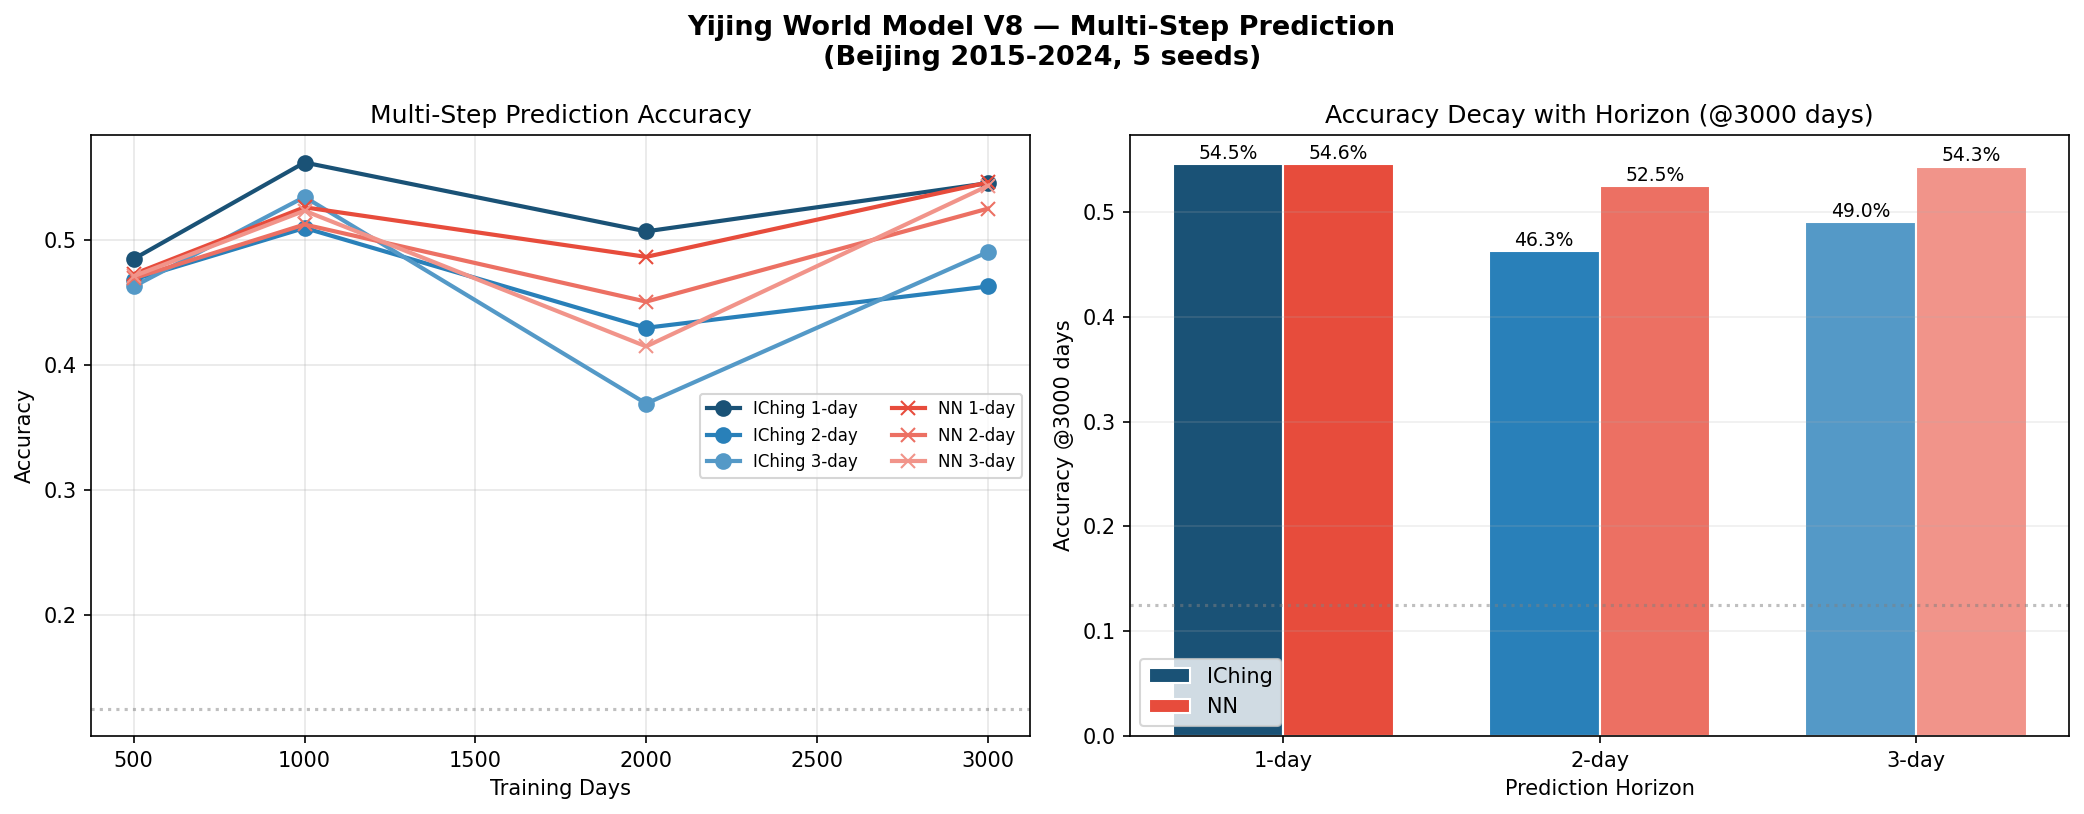
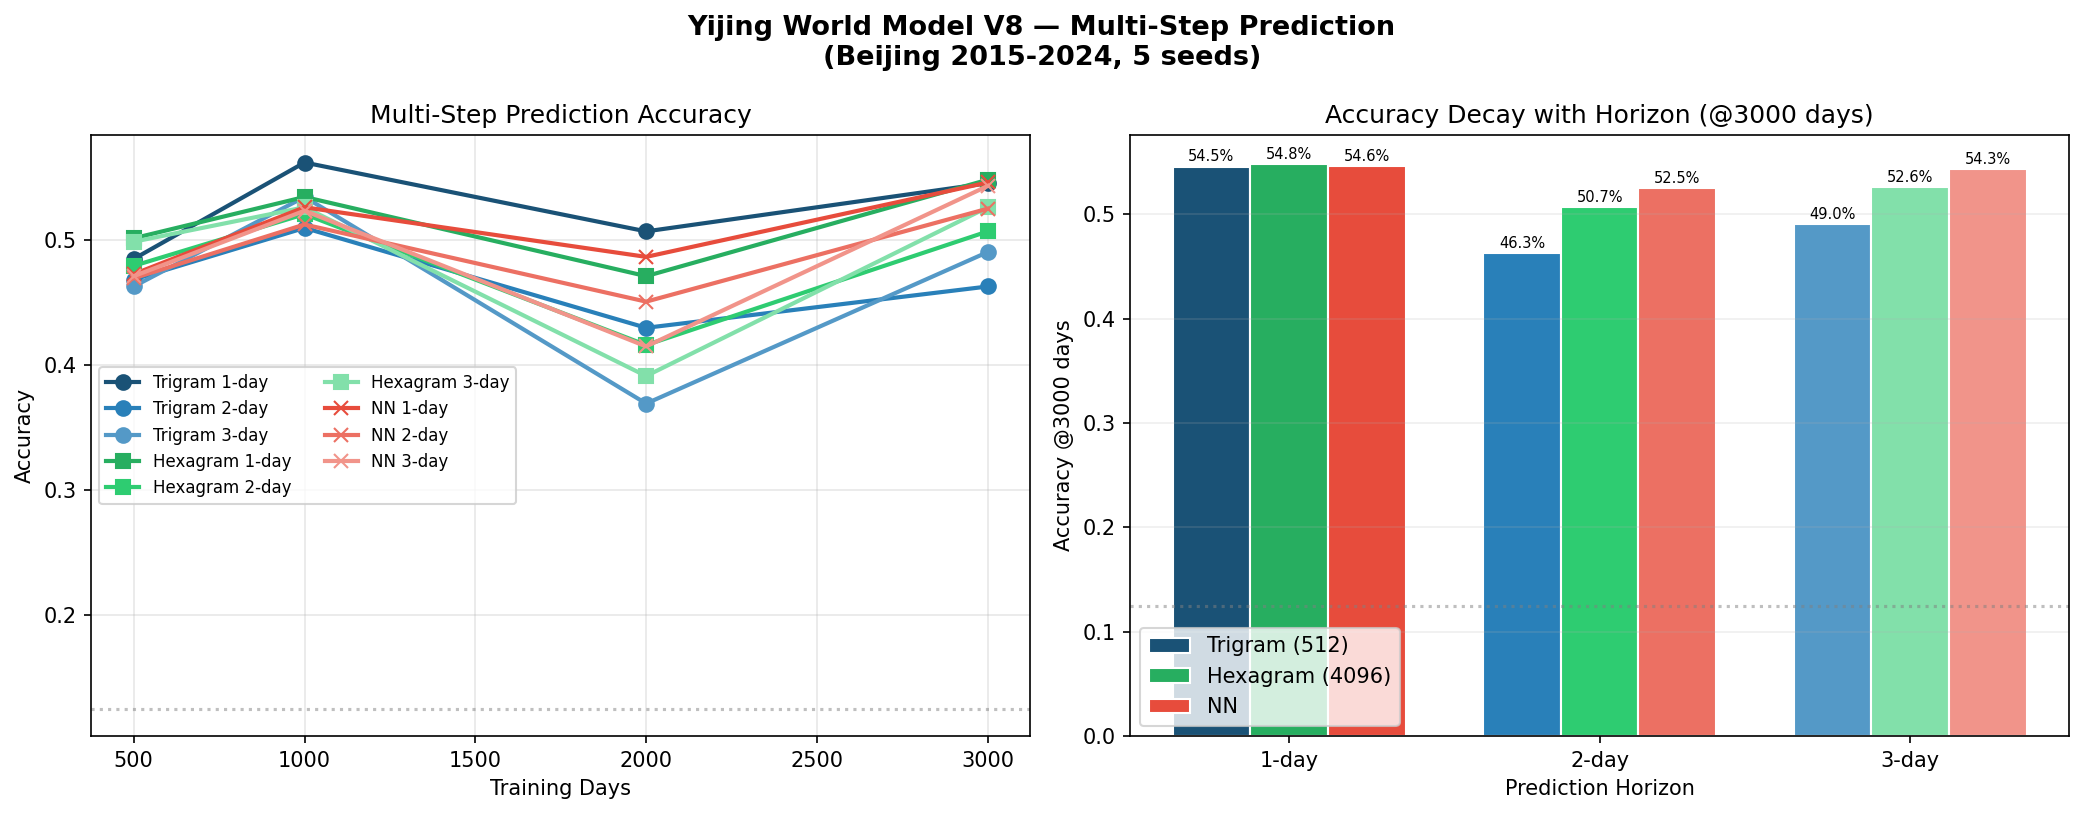
V8+: Hexagram model multi-step (decay 2.2% vs Trigram 5.5%)

diff --git a/mvp/experiment_v8.py b/mvp/experiment_v8.py
@@ -18,8 +18,8 @@ import json, urllib.request, os, csv, warnings
 warnings.filterwarnings("ignore")
 
 from model import (
-    TrigramBayesianModel, NeuralNetModel,
-    TRIGRAM_WEATHER, N_WEATHER, WEATHER_TYPES,
+    TrigramBayesianModel, IChingBayesianModel, NeuralNetModel,
+    TRIGRAM_WEATHER, HEXAGRAM_AFFINITIES, N_WEATHER, WEATHER_TYPES,
 )
 
 # ============================================================================
@@ -81,7 +81,7 @@ def to_seq(data):
 # 实验
 # ============================================================================
 
-LABELS = ["IChing-1d","IChing-2d","IChing-3d","NN-1d","NN-2d","NN-3d"]
+LABELS = ["Tri-1d","Tri-2d","Tri-3d","Hex-1d","Hex-2d","Hex-3d","NN-1d","NN-2d","NN-3d"]
 SIZES, EVAL_W = [500, 1000, 2000, 3000], 365
 SEEDS = [42, 123, 456, 789, 1011]
 
@@ -92,14 +92,23 @@ def run(weather):
         for N in SIZES:
             tw = weather[:N]; ew = weather[N:N+EVAL_W]
 
-            # IChing
-            m_i = TrigramBayesianModel(TRIGRAM_WEATHER, 1.0, 0.5)
+            # Trigram
+            m_t = TrigramBayesianModel(TRIGRAM_WEATHER, 1.0, 0.5)
             for t in range(1, len(tw)):
-                m_i.update(tw[:t].tolist(), tw[t])
-            acc = evaluate_multistep(m_i, tw, ew, 3)
-            res[N]["IChing-1d"].append(acc[0])
-            res[N]["IChing-2d"].append(acc[1])
-            res[N]["IChing-3d"].append(acc[2])
+                m_t.update(tw[:t].tolist(), tw[t])
+            acc = evaluate_multistep(m_t, tw, ew, 3)
+            res[N]["Tri-1d"].append(acc[0])
+            res[N]["Tri-2d"].append(acc[1])
+            res[N]["Tri-3d"].append(acc[2])
+
+            # Hexagram
+            m_h = IChingBayesianModel(HEXAGRAM_AFFINITIES, 1.0, 0.5)
+            for t in range(1, len(tw)):
+                m_h.update(tw[:t].tolist(), tw[t])
+            acc = evaluate_multistep(m_h, tw, ew, 3)
+            res[N]["Hex-1d"].append(acc[0])
+            res[N]["Hex-2d"].append(acc[1])
+            res[N]["Hex-3d"].append(acc[2])
 
             # NN
             m_n = NeuralNetModel(ctx_win=3, hidden=32, lr=0.005, seed=seed)
@@ -115,14 +124,18 @@ def run(weather):
 def plot(res):
     fig, (ax1, ax2) = plt.subplots(1,2,figsize=(14,5.5))
 
-    colors_i = {1:"#1a5276",2:"#2980b9",3:"#5499c7"}
+    colors_t = {1:"#1a5276",2:"#2980b9",3:"#5499c7"}
+    colors_h = {1:"#27ae60",2:"#2ecc71",3:"#82e0aa"}
     colors_n = {1:"#e74c3c",2:"#ec7063",3:"#f1948a"}
 
-    # Accuracy curves
-    for d, lb in [(1,"IChing-1d"),(2,"IChing-2d"),(3,"IChing-3d")]:
+    for d, lb in [(1,"Tri-1d"),(2,"Tri-2d"),(3,"Tri-3d")]:
         means = [np.mean(res[N][lb]) for N in SIZES]
-        ax1.plot(SIZES, means, color=colors_i[d], marker="o", lw=2, ms=7,
-                 label=f"IChing {d}-day")
+        ax1.plot(SIZES, means, color=colors_t[d], marker="o", lw=2, ms=7,
+                 label=f"Trigram {d}-day")
+    for d, lb in [(1,"Hex-1d"),(2,"Hex-2d"),(3,"Hex-3d")]:
+        means = [np.mean(res[N][lb]) for N in SIZES]
+        ax1.plot(SIZES, means, color=colors_h[d], marker="s", lw=2, ms=7,
+                 label=f"Hexagram {d}-day")
     for d, lb in [(1,"NN-1d"),(2,"NN-2d"),(3,"NN-3d")]:
         means = [np.mean(res[N][lb]) for N in SIZES]
         ax1.plot(SIZES, means, color=colors_n[d], marker="x", lw=2, ms=7,
@@ -134,16 +147,20 @@ def plot(res):
 
     # Decay rate at 3000 days
     N_k = 3000
-    i_acc = [np.mean(res[N_k][f"IChing-{d}d"]) for d in [1,2,3]]
+    t_acc = [np.mean(res[N_k][f"Tri-{d}d"]) for d in [1,2,3]]
+    h_acc = [np.mean(res[N_k][f"Hex-{d}d"]) for d in [1,2,3]]
     n_acc = [np.mean(res[N_k][f"NN-{d}d"]) for d in [1,2,3]]
-    x = np.arange(3); w = 0.35
-    ax2.bar(x-w/2, i_acc, w, color=[colors_i[d] for d in [1,2,3]],
-            label="IChing", edgecolor="white")
-    ax2.bar(x+w/2, n_acc, w, color=[colors_n[d] for d in [1,2,3]],
+    x = np.arange(3); w = 0.25
+    ax2.bar(x-w, t_acc, w, color=[colors_t[d] for d in [1,2,3]],
+            label="Trigram (512)", edgecolor="white")
+    ax2.bar(x, h_acc, w, color=[colors_h[d] for d in [1,2,3]],
+            label="Hexagram (4096)", edgecolor="white")
+    ax2.bar(x+w, n_acc, w, color=[colors_n[d] for d in [1,2,3]],
             label="NN", edgecolor="white")
-    for i, (ia, na) in enumerate(zip(i_acc, n_acc)):
-        ax2.text(i-w/2, ia+0.005, f"{ia:.1%}", ha="center", fontsize=9)
-        ax2.text(i+w/2, na+0.005, f"{na:.1%}", ha="center", fontsize=9)
+    for i, (ta, ha, na) in enumerate(zip(t_acc, h_acc, n_acc)):
+        ax2.text(i-w, ta+0.005, f"{ta:.1%}", ha="center", fontsize=7)
+        ax2.text(i, ha+0.005, f"{ha:.1%}", ha="center", fontsize=7)
+        ax2.text(i+w, na+0.005, f"{na:.1%}", ha="center", fontsize=7)
     ax2.set_xticks(x); ax2.set_xticklabels(["1-day","2-day","3-day"])
     ax2.set_xlabel("Prediction Horizon"); ax2.set_ylabel(f"Accuracy @{N_k} days")
     ax2.set_title(f"Accuracy Decay with Horizon (@{N_k} days)")
@@ -182,17 +199,18 @@ def main():
 
     print(f"\n[3/3] Results (@3000 days):")
     for md in range(1,4):
-        ia = np.mean(results[3000][f"IChing-{md}d"])
+        ta = np.mean(results[3000][f"Tri-{md}d"])
+        ha = np.mean(results[3000][f"Hex-{md}d"])
         na = np.mean(results[3000][f"NN-{md}d"])
-        print(f"  {md}-day: IChing={ia:.1%}  NN={na:.1%}  Δ={ia-na:+.1%}")
+        print(f"  {md}-day: Tri={ta:.1%}  Hex={ha:.1%}  NN={na:.1%}")
 
-    i1 = np.mean(results[3000]["IChing-1d"])
-    i3 = np.mean(results[3000]["IChing-3d"])
-    n1 = np.mean(results[3000]["NN-1d"])
-    n3 = np.mean(results[3000]["NN-3d"])
+    t1 = np.mean(results[3000]["Tri-1d"])
+    t3 = np.mean(results[3000]["Tri-3d"])
+    h1 = np.mean(results[3000]["Hex-1d"])
+    h3 = np.mean(results[3000]["Hex-3d"])
     print(f"\n  3天衰减:")
-    print(f"    IChing: {i1:.1%}→{i3:.1%} (衰减={i1-i3:.1%})")
-    print(f"    NN:     {n1:.1%}→{n3:.1%} (衰减={n1-n3:.1%})")
+    print(f"    Trigram:  {t1:.1%}→{t3:.1%} (Δ={t1-t3:.1%})")
+    print(f"    Hexagram: {h1:.1%}→{h3:.1%} (Δ={h1-h3:.1%})")
 
     plot(results)
     save_csv(results)